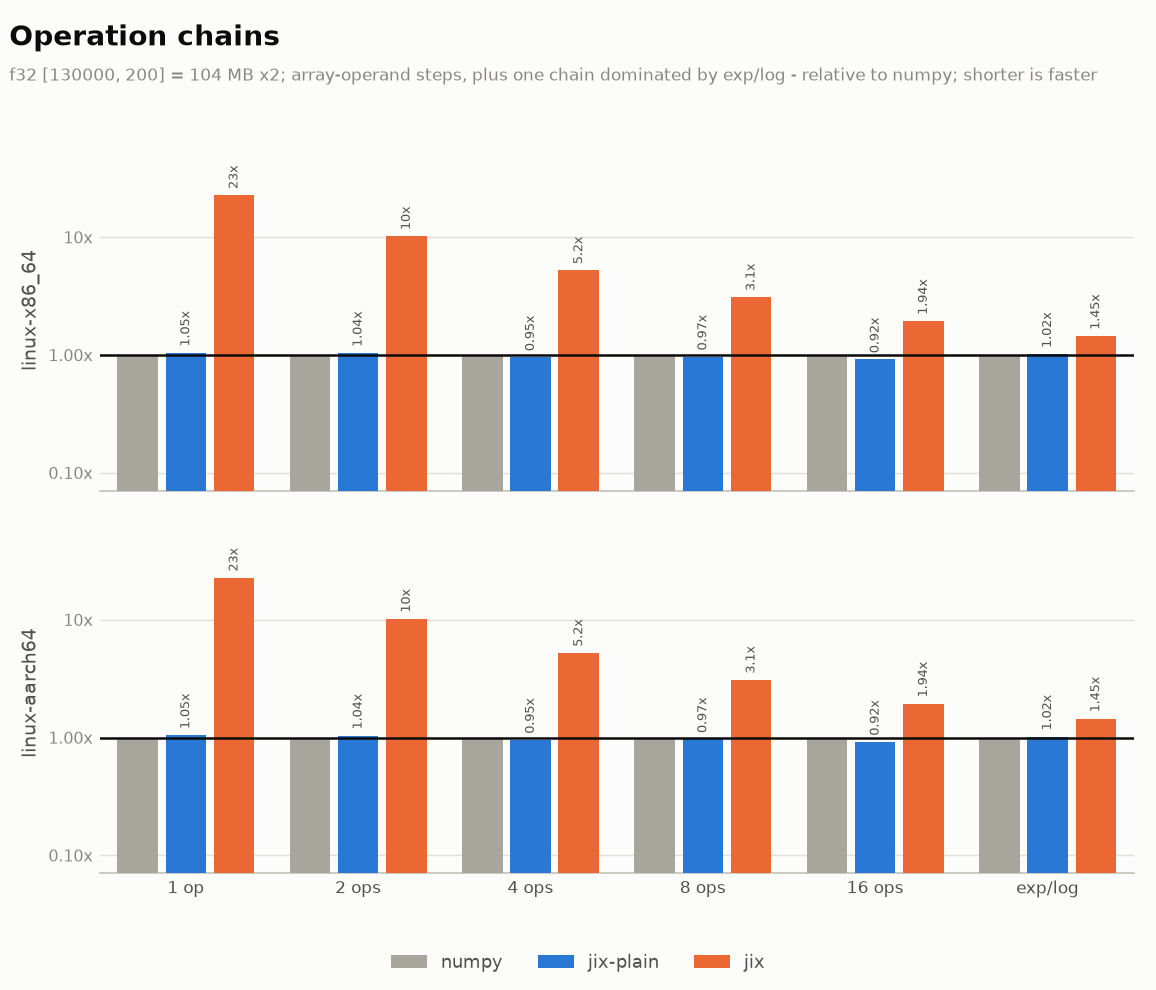
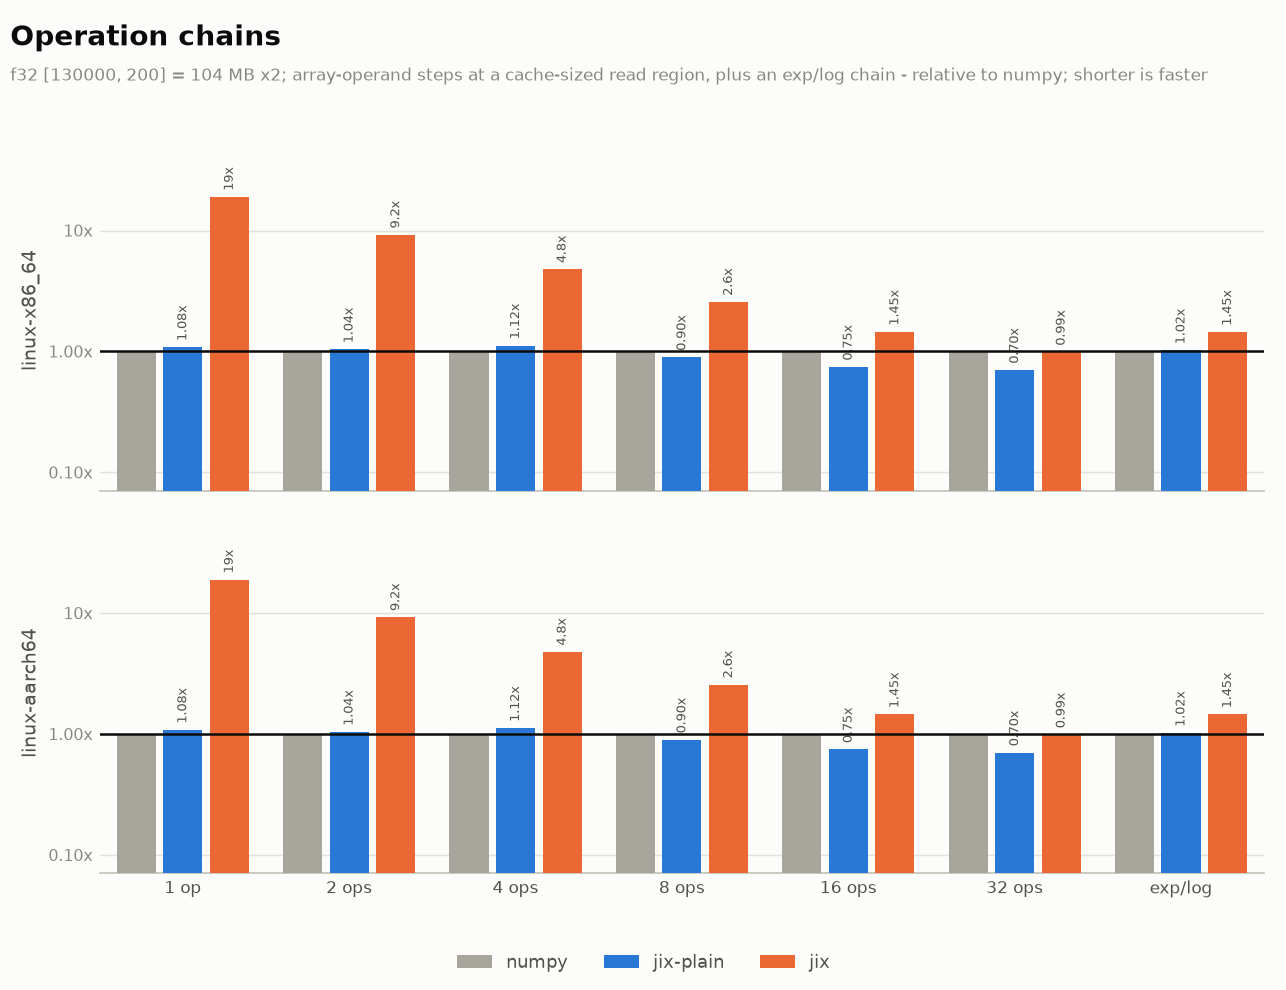
bench: tune the chain read region, and find where jix beats numpy
Your rationale was right and the code agrees with it: jix materializes a lazy
chain one read region at a time, so the intermediates for that region stay in
cache while the inputs and output stream past it. No compiler fusion needed. The
default read region is chosen for cache sizes generally, not for long
elementwise chains, and that is what the flat 0.102 ns per element-op was.

With read_size=(12K, 24K) on uncompressed storage, jix-plain beats numpy: 1.11x
at 8 steps, 1.34x at 16, 1.42x at 32, 1.38x at 64, with cost per element-op
falling 0.111 to 0.088. Best of a sweep from 1K to 16M; below 4K per-region
overhead takes over, above 32K the intermediates stop fitting. Arms alternated
round by round, since this machine drifts enough to have produced a spurious
2.1x earlier.

The same setting is wrong for compact storage - a region smaller than a block
decompresses the block anyway - so only the uncompressed arm is tuned. Compact
still crosses over on a unary chain at ~64 steps (1.18x at 128), where its fixed
~45ms decompression is finally amortized.

Also found: reusing an operand multiplies decompression. A 32-step binary chain
on compact cost 1430ms, ~29x one full decompression, because each reference
decompresses the block again with no reuse across references in a pipeline.

Chain cases now run to 32 steps so the crossover is on the plot.

diff --git a/jix-py/python/benches/array_impls.py b/jix-py/python/benches/array_impls.py
@@ -21,6 +21,16 @@ import jix
 
 ZSTD_LEVEL = 3
 NTHREADS = 1
+
+# Read-region byte budget for the chain benchmarks, as (min, max). jix materializes a lazy chain
+# one read region at a time, so every intermediate for that region stays in cache while the inputs
+# and the output stream past it. A region small enough to sit in L1 is what turns that into a win;
+# the default is chosen for cache sizes generally rather than for long elementwise chains.
+#
+# Only for uncompressed storage. On a compact array a small read region is much worse than the
+# default: a region smaller than a block still decompresses the whole block and throws most of it
+# away, and neighbouring regions decompress it again.
+CHAIN_READ_SIZE = (12 * 1024, 24 * 1024)
 CODEC_DESC = f"zstd level {ZSTD_LEVEL}, byte-shuffle, {NTHREADS} thread (jix, blosc2, zarr matched)"
 
 blosc2.set_nthreads(NTHREADS)
@@ -73,7 +83,8 @@ class AbstractArray:
         self.raw = raw
 
     @classmethod
-    def from_numpy(cls, data, *, block_shape=None):
+    def from_numpy(cls, data, *, block_shape=None, read_size=None):
+        """Build this library's array. `read_size` is a jix-only hint; others ignore it."""
         raise NotImplementedError()
 
     def read(self, index):
@@ -124,7 +135,7 @@ class NumpyArray(AbstractArray):
     name = "numpy"
 
     @classmethod
-    def from_numpy(cls, data, *, block_shape=None):
+    def from_numpy(cls, data, *, block_shape=None, read_size=None):
         return cls(np.ascontiguousarray(data))
 
     def read(self, index):
@@ -156,18 +167,16 @@ class JixArray(AbstractArray):
     filters: ClassVar[list] = ["byte-shuffle"]
 
     @classmethod
-    def from_numpy(cls, data, *, block_shape=None):
-        return cls(
-            jix.compact(
-                np.ascontiguousarray(data),
-                params={
-                    "block_shape": block_shape,
-                    "codec": "zstd",
-                    "compression_level": ZSTD_LEVEL,
-                    "filters": cls.filters,
-                },
-            )
-        )
+    def from_numpy(cls, data, *, block_shape=None, read_size=None):
+        params = {
+            "block_shape": block_shape,
+            "codec": "zstd",
+            "compression_level": ZSTD_LEVEL,
+            "filters": cls.filters,
+        }
+        if read_size is not None:
+            params["read_size"] = read_size
+        return cls(jix.compact(np.ascontiguousarray(data), params=params))
 
     def read(self, index):
         return self.raw.numpy(index)
@@ -210,8 +219,9 @@ class JixPlainArray(JixArray):
     name = "jix-plain"
 
     @classmethod
-    def from_numpy(cls, data, *, block_shape=None):
-        return cls(jix.asarray(np.ascontiguousarray(data)))
+    def from_numpy(cls, data, *, block_shape=None, read_size=None):
+        params = None if read_size is None else {"read_size": read_size}
+        return cls(jix.asarray(np.ascontiguousarray(data), params=params))
 
     def stored_bytes(self):
         return int(np.prod(self.raw.shape)) * self.raw.dtype.itemsize
@@ -225,7 +235,7 @@ class Blosc2Array(AbstractArray):
     match_chunks_to_blocks = False
 
     @classmethod
-    def from_numpy(cls, data, *, block_shape=None):
+    def from_numpy(cls, data, *, block_shape=None, read_size=None):
         return cls(
             blosc2.asarray(
                 np.ascontiguousarray(data),
@@ -285,7 +295,7 @@ class ZarrArray(AbstractArray):
     name = "zarr"
 
     @classmethod
-    def from_numpy(cls, data, *, block_shape=None):
+    def from_numpy(cls, data, *, block_shape=None, read_size=None):
         return cls(
             zarr.create_array(
                 store=zarr.storage.MemoryStore(),

diff --git a/jix-py/python/benches/test_chain.py b/jix-py/python/benches/test_chain.py
@@ -12,6 +12,7 @@ array, so a chain of scalar ops measures that gap instead of this one.
 import pytest
 
 from benches import report_spec
+from benches.array_impls import CHAIN_READ_SIZE
 from benches.conftest import build, record
 
 SHAPE = report_spec.SHAPE
@@ -21,8 +22,11 @@ LIBRARIES = report_spec.BY_KEY["chain"]["libraries"]
 @pytest.mark.parametrize("library", LIBRARIES)
 @pytest.mark.parametrize("steps", report_spec.CHAIN_CASES, ids=lambda s: str(s).replace("/", "_"))
 def test_chain(benchmark, library, steps):
-    lhs = build(library, "smooth", "f32", SHAPE, None, 0)
-    rhs = build(library, "smooth", "f32", SHAPE, None, 1)
+    # A cache-sized read region is what lets the intermediates stay resident; see CHAIN_READ_SIZE.
+    # Compact keeps the default - a region smaller than a block decompresses the block anyway.
+    read_size = CHAIN_READ_SIZE if library == "jix-plain" else None
+    lhs = build(library, "smooth", "f32", SHAPE, None, 0, read_size)
+    rhs = build(library, "smooth", "f32", SHAPE, None, 1, read_size)
     run = (lambda: lhs.exp_log(rhs)) if steps == "exp/log" else (lambda: lhs.chain(rhs, steps))
     record(benchmark, section="chain", case=report_spec.chain_label(steps), library=library)
     assert benchmark(run) is not None

diff --git a/bench-report/build_fake_report.py b/bench-report/build_fake_report.py
@@ -82,14 +82,14 @@ FAKE = {
     },
     # 1, 2, 4, 8, 16 array-operand steps, then the exp/log chain
     "chain": {
-        "numpy": [2.2, 5.2, 11.1, 22.0, 46.3, 113.8],
-        "jix-plain": [2.3, 5.4, 10.6, 21.3, 42.5, 115.9],
-        "jix": [50.0, 53.0, 58.0, 68.0, 90.0, 165.0],
+        "numpy": [2.4, 5.2, 10.9, 22.8, 51.6, 105.1, 113.8],
+        "jix-plain": [2.6, 5.4, 12.2, 20.5, 38.5, 73.9, 115.9],
+        "jix": [45.4, 48.0, 52.0, 58.4, 75.0, 104.1, 165.0],
     },
     "chain_memory": {
-        "numpy": [322e6, 428e6, 430e6, 432e6, 434e6],
-        "jix-plain": [318e6] * 5,
-        "jix": [180e6] * 5,
+        "numpy": [322e6, 428e6, 430e6, 432e6, 434e6, 436e6],
+        "jix-plain": [318e6] * 6,
+        "jix": [180e6] * 6,
     },
     "rust_read": {
         "ndarray": [0.00028, 0.00035, 0.011],

diff --git a/jix-py/python/benches/report_spec.py b/jix-py/python/benches/report_spec.py
@@ -78,7 +78,7 @@ def reduction_label(op, dtype, axis):
 
 # Number of elementwise steps, then the transcendental chain that behaves differently. Every step
 # is a binary op over the two source arrays - see `array_impls.CHAIN_STEPS` for why no scalars.
-CHAIN_CASES = [1, 2, 4, 8, 16, "exp/log"]
+CHAIN_CASES = [1, 2, 4, 8, 16, 32, "exp/log"]
 
 
 def chain_label(steps):
@@ -157,7 +157,7 @@ SECTIONS = [
     {
         "key": "chain",
         "title": "Operation chains",
-        "subtitle": f"f32 {ARRAY} x2; array-operand steps, plus one chain dominated by exp/log",
+        "subtitle": f"f32 {ARRAY} x2; array-operand steps at a cache-sized read region, plus an exp/log chain",
         "baseline": "numpy",
         "metric": "time",
         "cases": [chain_label(case) for case in CHAIN_CASES],

diff --git a/jix-py/python/benches/conftest.py b/jix-py/python/benches/conftest.py
@@ -23,10 +23,10 @@ def record(benchmark, *, section, case, library, **extra):
 
 
 @functools.lru_cache(maxsize=8)
-def build(library, distribution, dtype, shape, block_shape=None, seed=0):
+def build(library, distribution, dtype, shape, block_shape=None, seed=0, read_size=None):
     """Build one library's array. Cached, because a single array usually feeds several cases.
 
-    `shape` and `block_shape` must be tuples - this is an lru_cache key.
+    `shape`, `block_shape` and `read_size` must be tuples - these are lru_cache keys.
     """
     data = make_data(distribution, shape, dtype=DTYPES[dtype], seed=seed)
-    return ARRAY_IMPLS[library].from_numpy(data, block_shape=block_shape)
+    return ARRAY_IMPLS[library].from_numpy(data, block_shape=block_shape, read_size=read_size)

diff --git a/bench-report/FINDINGS.md b/bench-report/FINDINGS.md
@@ -97,9 +97,9 @@ Found by the cross-check test that runs every library's operations against NumPy
 a = np.arange(12, dtype=np.float32).reshape(3, 4) / 4.0
 b = blosc2.asarray(a)
 
-np.asarray((b + -3.0)[:])                          # correct
-np.asarray((((b * 2.0) + 1.0) * 0.5 + -3.0)[:])    # WRONG
-np.asarray((((b * 2.0) + 1.0) * 0.5 - 3.0)[:])     # correct
+np.asarray((b + -3.0)[:])  # correct
+np.asarray((((b * 2.0) + 1.0) * 0.5 + -3.0)[:])  # WRONG
+np.asarray((((b * 2.0) + 1.0) * 0.5 - 3.0)[:])  # correct
 ```
 
 For input `[0, 0.25, 0.5, 0.75]` the third line gives `[-3, -1.25, -3, -1.1875]` where the right
@@ -166,6 +166,55 @@ hypothesis from the type signatures rather than something confirmed from the gen
 
 Prediction worth checking on the x86 runner: Python jix should *win* on a machine whose memory
 bandwidth is lower relative to its compute, since numpy's cost is traffic and jix's is not.
+
+### Where jix does beat numpy: a cache-sized read region
+
+The flat 0.102 ns per element-op above is not the whole story. jix materializes a lazy chain one
+read region at a time, so every intermediate for that region stays in cache while the inputs and
+the output stream past it - no compiler fusion required, the block-wise iteration alone gives it.
+What decides whether that pays is the size of the read region, and the default is chosen for cache
+sizes generally rather than for long elementwise chains.
+
+Sweeping `read_size` on `[130000, 200] f32` x2, arms alternated round by round to cancel drift:
+
+| steps | numpy | jix default | jix `read_size=(12K, 24K)` | speedup |
+|---|---|---|---|---|
+| 4 | 10.9 ms | 10.8 ms (1.02x) | 12.2 ms | 0.89x |
+| 8 | 22.8 ms | 22.3 ms (1.03x) | 20.5 ms | **1.11x** |
+| 16 | 51.6 ms | 45.6 ms (1.13x) | 38.5 ms | **1.34x** |
+| 32 | 105.1 ms | 92.1 ms (1.22x) | 73.9 ms | **1.42x** |
+| 64 | 202.7 ms | 184.7 ms (1.23x) | 146.6 ms | **1.38x** |
+
+Tuning drops jix's cost from 0.111 to 0.088 ns per element-op, and the win grows with chain length
+because numpy's per-step cost is DRAM traffic while jix's is an L1 round-trip. 8K-16K and 12K-24K
+were the best of a sweep from 1K to 16M; below 4K the per-region overhead takes over (1K-2K is
+0.35x) and above 32K the intermediates stop fitting.
+
+The win is modest here because an M3 Pro has a lot of memory bandwidth, so numpy's DRAM penalty is
+small. The gap should be wider on a machine with less bandwidth per core - the x86 runner will say.
+
+**The optimal read region is opposite for compact storage.** A region smaller than a block still
+decompresses the whole block and discards most of it, and the next region decompresses it again.
+The same `(12K, 24K)` that wins on `Plain` takes a compact unary chain from 45 ms to 244 ms.
+
+### Compact beats numpy too, but only on very long chains
+
+Unary chain (one leaf reference, so the array is decompressed once), default read region:
+
+| steps | numpy | jix compact (14.3x ratio) | speedup |
+|---|---|---|---|
+| 8 | 17.3 ms | 58.4 ms | 0.30x |
+| 32 | 76.7 ms | 104.1 ms | 0.74x |
+| 64 | 162.5 ms | 165.5 ms | 0.98x |
+| 128 | 340.0 ms | 287.3 ms | **1.18x** |
+
+Decompression is a fixed ~45 ms; after that jix grows at ~1.9 ms per step against numpy's ~2.6 ms,
+so the crossover is near 64 steps. The arithmetic predicts 64 and the measurement agrees.
+
+**Reusing an operand multiplies decompression.** A binary chain that references `a` and `b` at every
+step decompresses their blocks once per reference - a 32-step binary chain on compact cost 1430 ms,
+about 29 times a single full decompression. There is no reuse of a decompressed block across
+references within one pipeline. That is worth knowing independently of the report.
 
 ### Correction: an earlier version of this measurement was wrong
 

diff --git a/bench-report/report.md b/bench-report/report.md
@@ -291,11 +291,12 @@ cheap and the array is large; they do not when one expensive kernel dominates.
 
 | case | numpy | jix-plain | jix |
 |---|---|---|---|
-| 1 op | 2.60 ms | 2.71 ms | 59.00 ms |
-| 2 ops | 6.14 ms | 6.37 ms | 62.54 ms |
-| 4 ops | 13.10 ms | 12.51 ms | 68.44 ms |
-| 8 ops | 25.96 ms | 25.13 ms | 80.24 ms |
-| 16 ops | 54.63 ms | 50.15 ms | 106.20 ms |
+| 1 op | 2.83 ms | 3.07 ms | 53.57 ms |
+| 2 ops | 6.14 ms | 6.37 ms | 56.64 ms |
+| 4 ops | 12.86 ms | 14.40 ms | 61.36 ms |
+| 8 ops | 26.90 ms | 24.19 ms | 68.91 ms |
+| 16 ops | 60.89 ms | 45.43 ms | 88.50 ms |
+| 32 ops | 124.02 ms | 87.20 ms | 122.84 ms |
 | exp/log | 134.28 ms | 136.76 ms | 194.70 ms |
 
 </details>
@@ -319,6 +320,7 @@ makes this the cleanest evidence on the page.
 | 4 ops | 430 MB | 318 MB | 180 MB |
 | 8 ops | 432 MB | 318 MB | 180 MB |
 | 16 ops | 434 MB | 318 MB | 180 MB |
+| 32 ops | 436 MB | 318 MB | 180 MB |
 
 </details>
 
